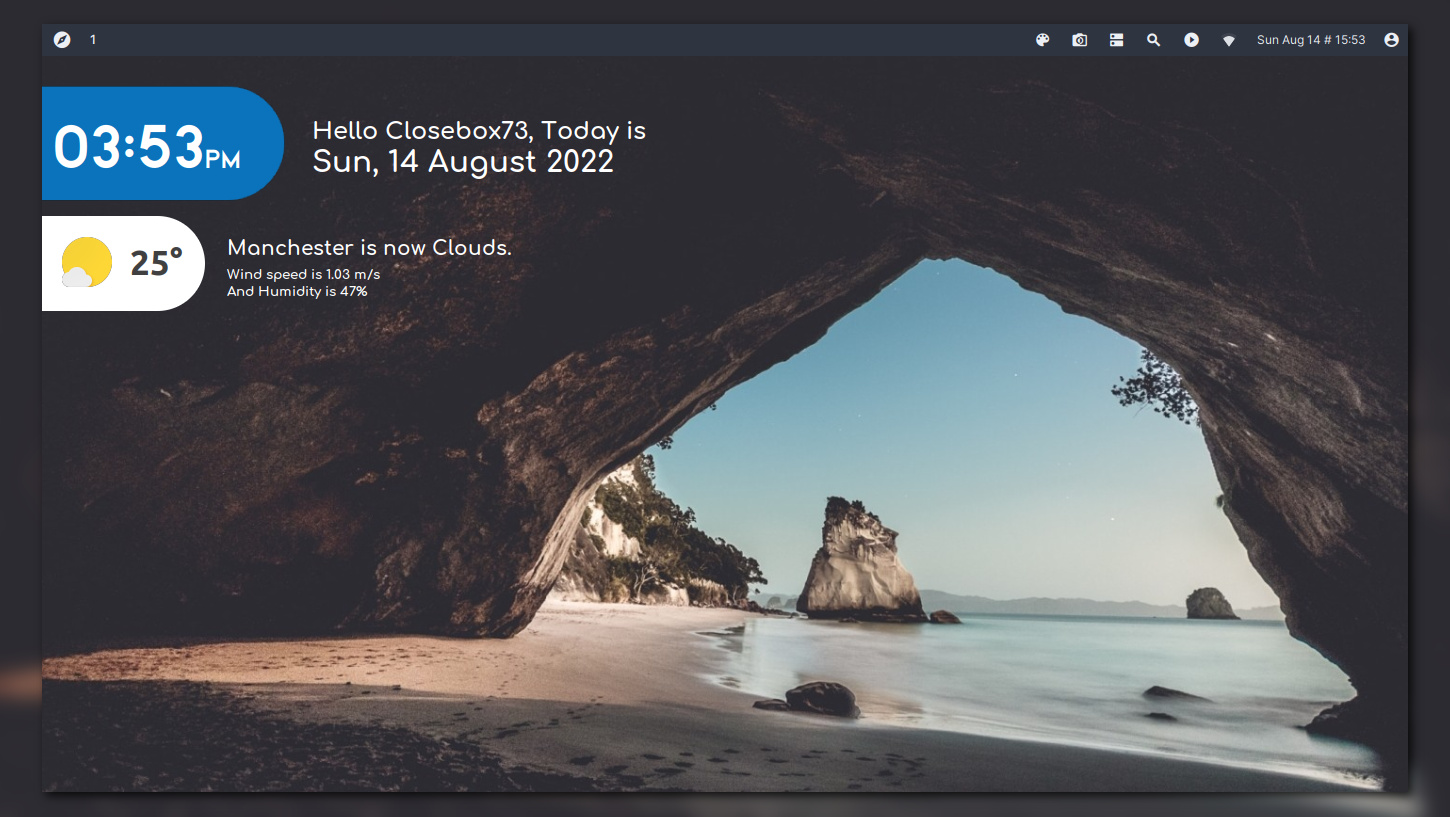
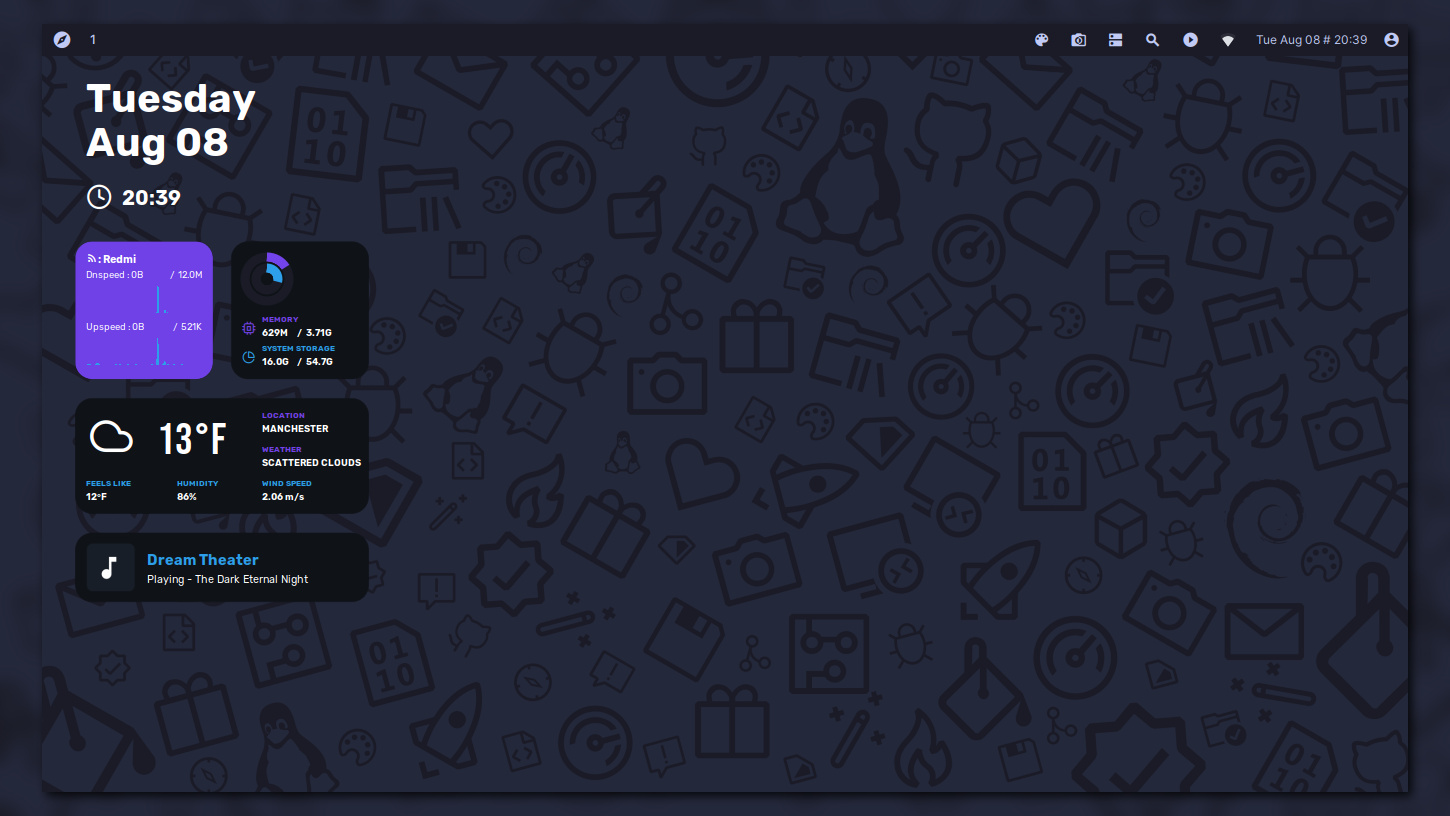
All new Izar 2nd Gen

diff --git a/README.md b/README.md
@@ -14,7 +14,6 @@ Leo represents the Nemean Lion, a beast with an impenetrable hide and razor shar
 ## :framed_picture: Showcase :
 Thanks for dropping by, I invite anyone who wants to show Conky's creations here, just send it in the issue and I will display it at the bottom of the readme
 
-### :rocket: NEW THEME!! :rocket:
 ### :lion: Naos theme
 ![](/Asset/Naos.jpg)
 - Version : 1.0
@@ -145,7 +144,12 @@ Thanks for dropping by, I invite anyone who wants to show Conky's creations here
 
 ### :lion: Izar theme
 ![](/Asset/Izar.jpg)
-- Now Download this theme at Pling.com [Here](https://www.pling.com/p/1833103/)
+- Version : 3.0
+- Download this theme at Pling.com [Here](https://www.pling.com/p/1833103/)
+- Font :
+	- [Bebas Neue](https://fonts.google.com/specimen/Bebas+Neue)
+	- [Rubik](https://fonts.google.com/specimen/Rubik)
+	- [Feather](https://github.com/AT-UI/feather-font)
 ----------------------------------------------------------------
 
 ## :moneybag: Tip Jar :
